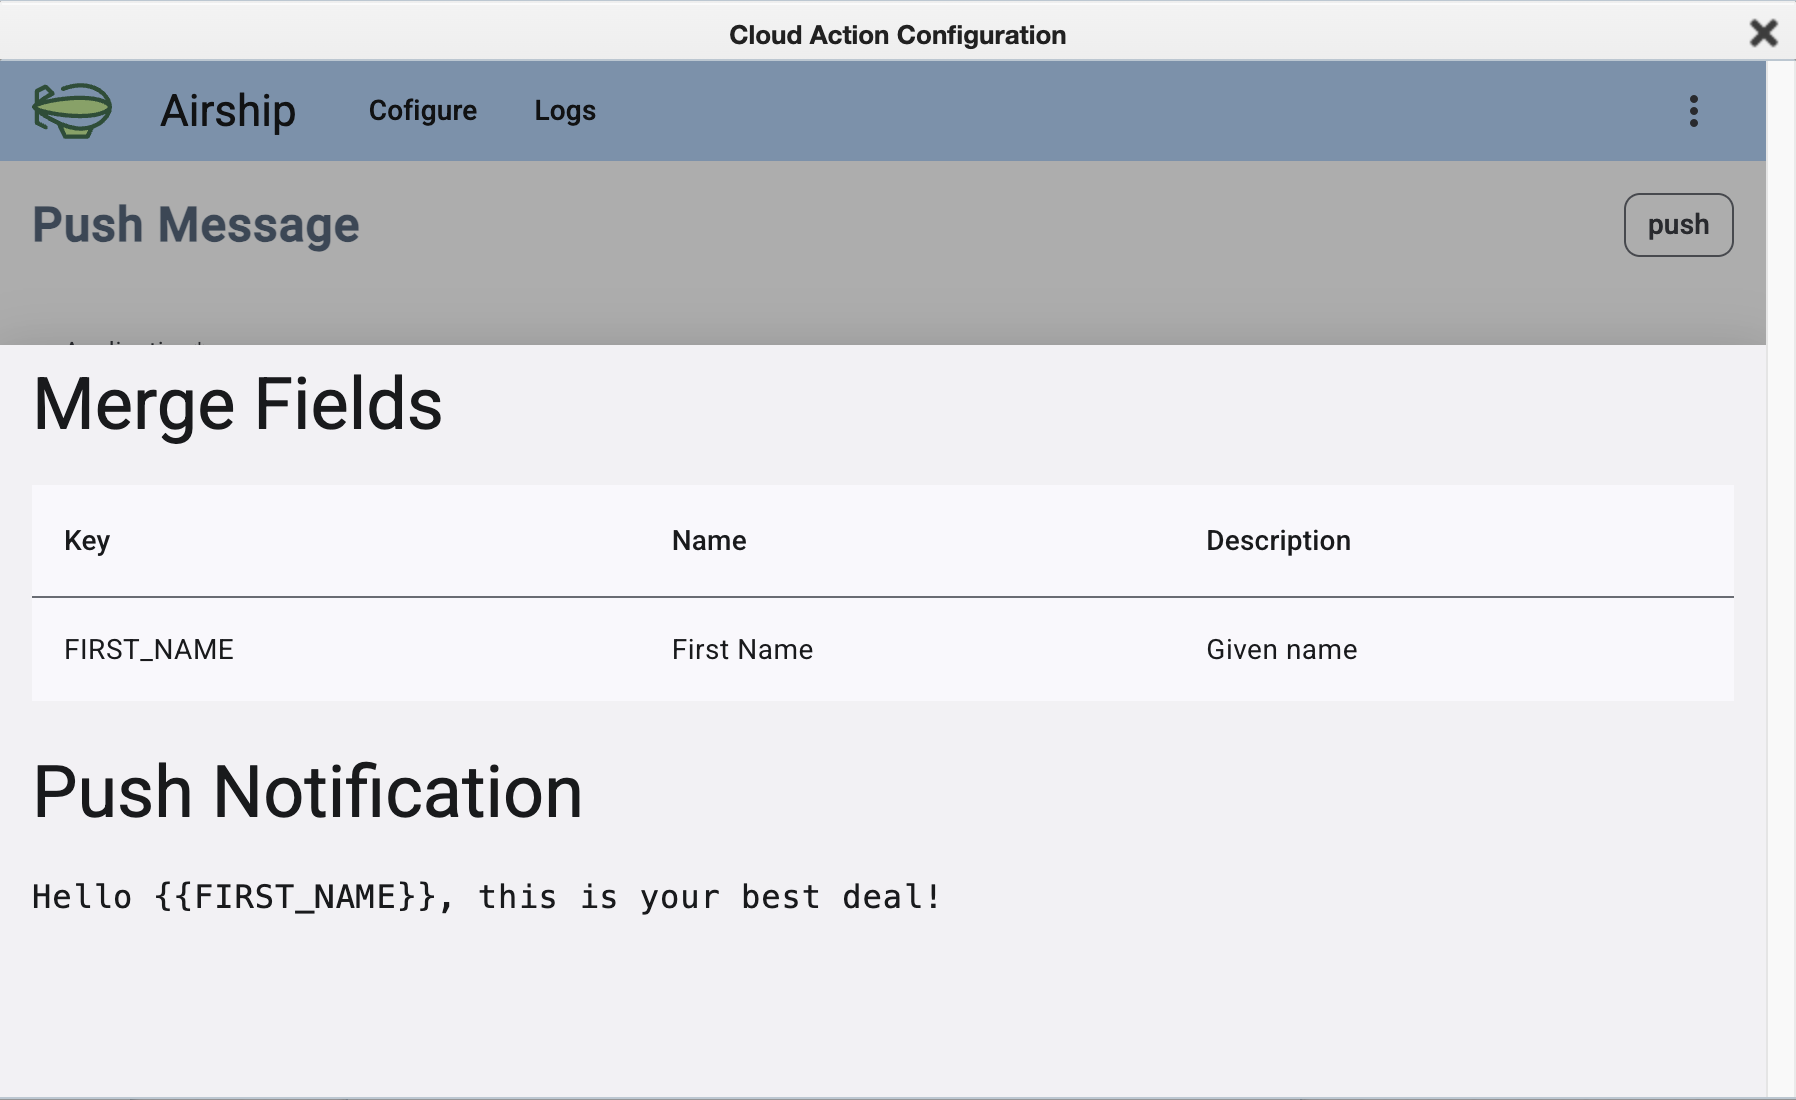
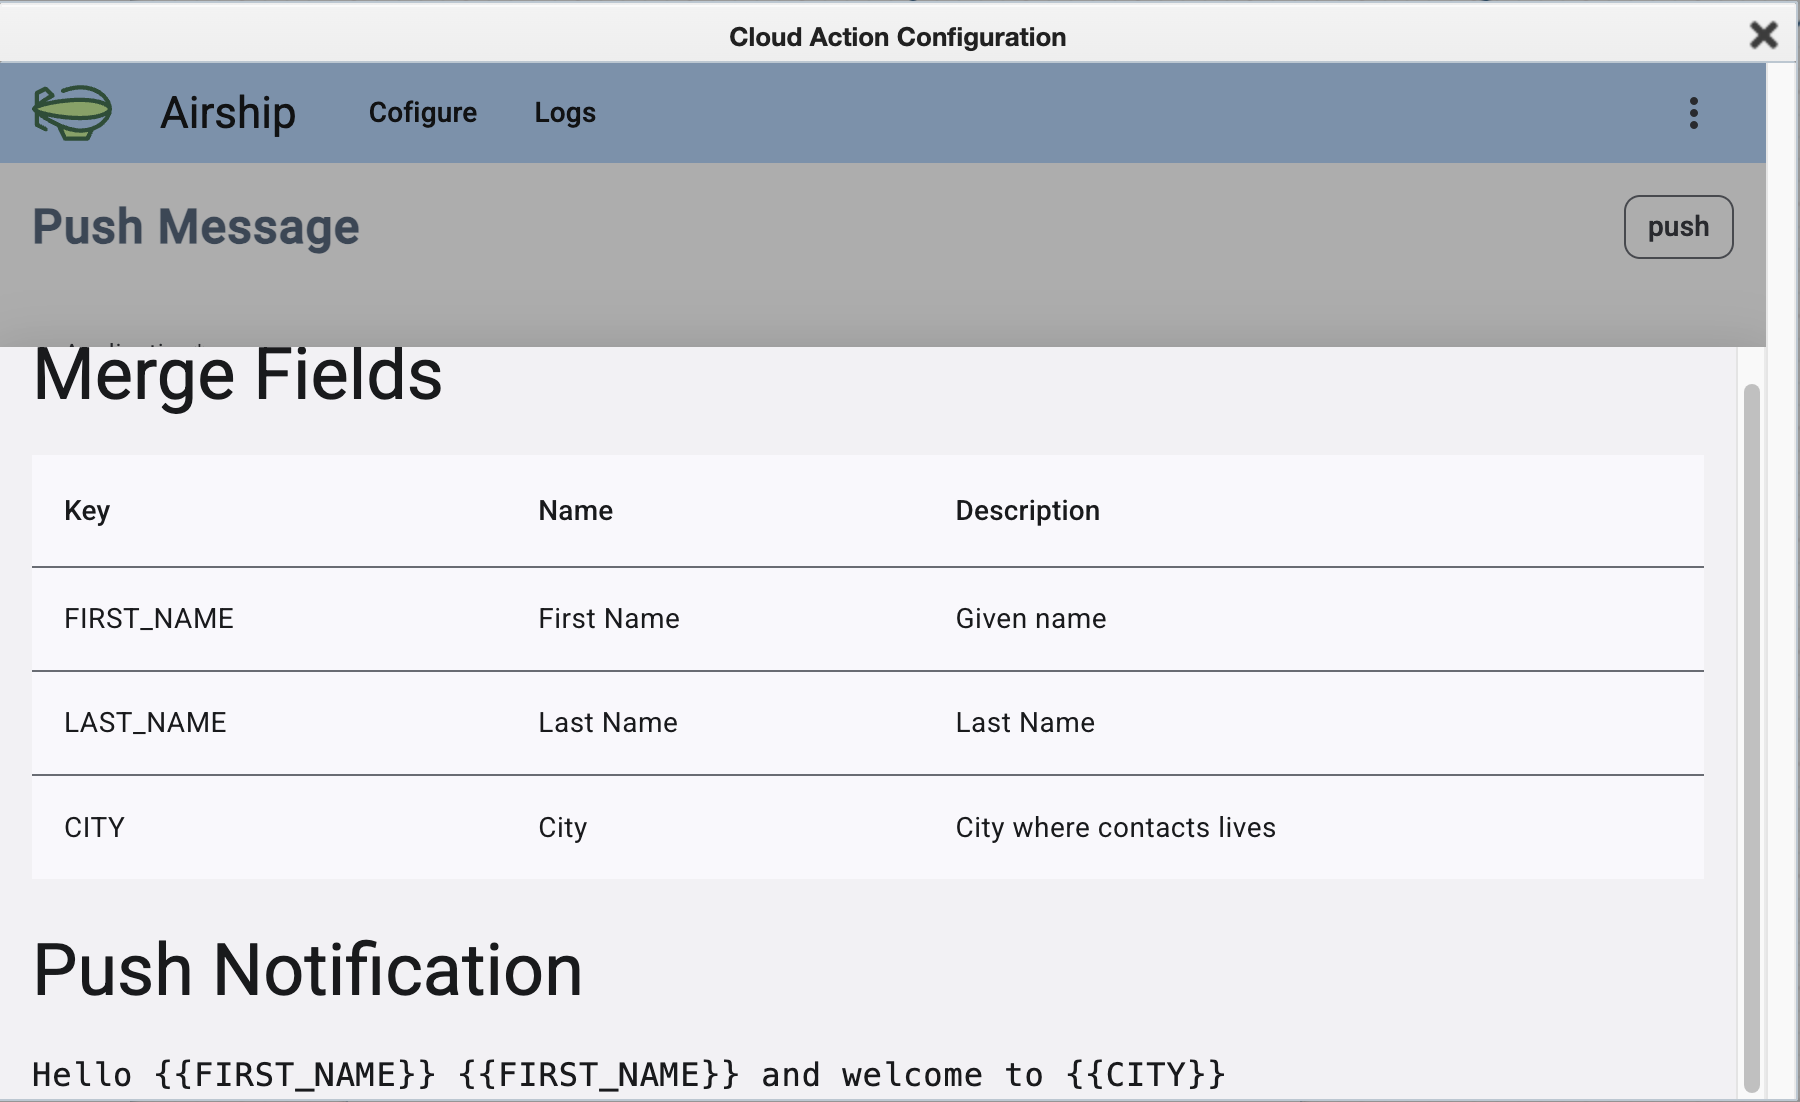
Remove segment push, restructure how-it-works with step flow, richer template preview

diff --git a/index.html b/index.html
@@ -42,7 +42,6 @@ title: "Airship × Eloqua Integration"
       </div>
     </div>
   </div>
-  <!-- Tech stack tags -->
   <div class="border-t border-indigo-800/50">
     <div class="max-w-6xl mx-auto px-6 py-4 flex flex-wrap gap-3">
       {% assign tags = "Eloqua Cloud App,AWS Lambda,SQS,DynamoDB,Angular,Serverless Framework,Node.js" | split: "," %}
@@ -53,30 +52,28 @@ title: "Airship × Eloqua Integration"
   </div>
 </section>
 
-<!-- ─── TWO MODES ──────────────────────────────────────────────── -->
+<!-- ─── HOW IT WORKS ───────────────────────────────────────────── -->
 <section id="how-it-works" class="bg-slate-50">
   <div class="max-w-6xl mx-auto px-6 py-20">
     <div class="text-center mb-16">
-      <h2 class="text-3xl lg:text-4xl font-light text-indigo-950 mb-4" style="font-family: 'Cinzel', serif;">Two ways to reach your audience</h2>
-      <p class="text-slate-500 max-w-xl mx-auto">Whether you're running an automated campaign or a one-off blast to a segment, the integration handles both.</p>
+      <h2 class="text-3xl lg:text-4xl font-light text-indigo-950 mb-4" style="font-family: 'Cinzel', serif;">Native inside Eloqua</h2>
+      <p class="text-slate-500 max-w-xl mx-auto">The integration lives as a Cloud App inside your Eloqua instance. Marketers work entirely within the Eloqua campaign builder — no external tools or logins.</p>
     </div>
 
-    <!-- Mode 1: Campaign Canvas -->
-    <div class="grid lg:grid-cols-2 gap-12 items-center mb-20">
-      <div>
-        <div class="inline-block text-sky-600 text-xs font-semibold tracking-widest uppercase mb-4">Mode 1</div>
+    <div class="grid lg:grid-cols-2 gap-12 items-start">
+      <div class="lg:sticky lg:top-24">
         <h3 class="text-2xl font-light text-indigo-950 mb-4" style="font-family: 'Cinzel', serif;">Campaign Canvas Action</h3>
         <p class="text-slate-600 leading-relaxed mb-6">
-          Drag and drop the Airship step into any Eloqua campaign. As contacts flow through the action step, push notifications are sent individually and in real time. Delivery status syncs back to Eloqua automatically — successes and failures both tracked.
+          Drag and drop the Airship step into any Eloqua campaign. As contacts flow through the action step, push notifications are queued and sent individually. The integration then reports delivery status back to Eloqua — successes and failures both recorded per contact.
         </p>
-        <ul class="space-y-3">
+        <ul class="space-y-3 mb-8">
           <li class="flex items-start gap-3 text-slate-600">
             <i class="fa-solid fa-check text-sky-500 mt-1 text-sm"></i>
-            Native drag-and-drop in the campaign canvas
+            Native drag-and-drop step in the campaign canvas
           </li>
           <li class="flex items-start gap-3 text-slate-600">
             <i class="fa-solid fa-check text-sky-500 mt-1 text-sm"></i>
-            Per-contact real-time delivery as they flow through the step
+            Per-contact delivery as they flow through the step
           </li>
           <li class="flex items-start gap-3 text-slate-600">
             <i class="fa-solid fa-check text-sky-500 mt-1 text-sm"></i>
@@ -84,45 +81,37 @@ title: "Airship × Eloqua Integration"
           </li>
           <li class="flex items-start gap-3 text-slate-600">
             <i class="fa-solid fa-check text-sky-500 mt-1 text-sm"></i>
-            Status synced back to Eloqua for each contact
+            Delivery status synced back to Eloqua automatically
+          </li>
+          <li class="flex items-start gap-3 text-slate-600">
+            <i class="fa-solid fa-check text-sky-500 mt-1 text-sm"></i>
+            Personalized messages using Eloqua contact field data
           </li>
         </ul>
-      </div>
-      <div class="space-y-4">
         <div class="rounded-xl overflow-hidden shadow-2xl border border-slate-200">
           <img src="/assets/images/campaign-canvas.png" alt="Airship step in Eloqua campaign canvas" class="w-full" />
         </div>
-        <div class="rounded-xl overflow-hidden shadow-xl border border-slate-200">
-          <img src="/assets/images/configure-filled.png" alt="Push message configuration" class="w-full" />
-        </div>
       </div>
-    </div>
 
-    <!-- Mode 2: Segment Push -->
-    <div class="grid lg:grid-cols-2 gap-12 items-center">
-      <div class="order-2 lg:order-1 rounded-xl overflow-hidden shadow-2xl border border-slate-200">
-        <img src="/assets/images/segment-push.png" alt="Segment push configuration" class="w-full" />
-      </div>
-      <div class="order-1 lg:order-2">
-        <div class="inline-block text-sky-600 text-xs font-semibold tracking-widest uppercase mb-4">Mode 2</div>
-        <h3 class="text-2xl font-light text-indigo-950 mb-4" style="font-family: 'Cinzel', serif;">Segment Push</h3>
-        <p class="text-slate-600 leading-relaxed mb-6">
-          Send a one-time bulk push to an entire Eloqua segment. Define your audience in Eloqua, open the Airship panel, pick your app and template, and send. Contact data is fetched from Eloqua in bulk and processed in the background.
-        </p>
-        <ul class="space-y-3">
-          <li class="flex items-start gap-3 text-slate-600">
-            <i class="fa-solid fa-check text-sky-500 mt-1 text-sm"></i>
-            Ad-hoc bulk send to any Eloqua segment
-          </li>
-          <li class="flex items-start gap-3 text-slate-600">
-            <i class="fa-solid fa-check text-sky-500 mt-1 text-sm"></i>
-            Contacts fetched directly from Eloqua via Bulk API
-          </li>
-          <li class="flex items-start gap-3 text-slate-600">
-            <i class="fa-solid fa-check text-sky-500 mt-1 text-sm"></i>
-            Processed asynchronously — no timeout risk on large segments
-          </li>
-        </ul>
+      <div class="space-y-6">
+        <div>
+          <p class="text-xs font-semibold text-sky-600 tracking-widest uppercase mb-2">Step 1 — Authenticate</p>
+          <div class="rounded-xl overflow-hidden shadow-lg border border-slate-200">
+            <img src="/assets/images/login.png" alt="Login inside Eloqua Cloud Action" class="w-full" />
+          </div>
+        </div>
+        <div>
+          <p class="text-xs font-semibold text-sky-600 tracking-widest uppercase mb-2">Step 2 — Configure</p>
+          <div class="rounded-xl overflow-hidden shadow-lg border border-slate-200">
+            <img src="/assets/images/configure-filled.png" alt="Push message configuration" class="w-full" />
+          </div>
+        </div>
+        <div>
+          <p class="text-xs font-semibold text-sky-600 tracking-widest uppercase mb-2">Step 3 — Preview template</p>
+          <div class="rounded-xl overflow-hidden shadow-lg border border-slate-200">
+            <img src="/assets/images/template-preview.png" alt="Template merge fields preview" class="w-full" />
+          </div>
+        </div>
       </div>
     </div>
   </div>
@@ -170,18 +159,18 @@ title: "Airship × Eloqua Integration"
 
       <div class="p-6 rounded-xl border border-slate-200 hover:border-indigo-300 hover:shadow-md transition-all">
         <div class="w-10 h-10 rounded-lg bg-indigo-100 flex items-center justify-center mb-4">
-          <i class="fa-solid fa-arrows-rotate text-indigo-600 text-lg"></i>
+          <i class="fa-solid fa-user-tag text-indigo-600 text-lg"></i>
         </div>
-        <h4 class="font-medium text-indigo-950 mb-2">Automatic status sync</h4>
-        <p class="text-slate-500 text-sm leading-relaxed">Delivery results — successes and failures — are imported back into Eloqua automatically after each send.</p>
+        <h4 class="font-medium text-indigo-950 mb-2">Personalization</h4>
+        <p class="text-slate-500 text-sm leading-relaxed">Templates support merge fields mapped to Eloqua contact data — send each contact a message with their name, city, or any custom field.</p>
       </div>
 
       <div class="p-6 rounded-xl border border-slate-200 hover:border-indigo-300 hover:shadow-md transition-all">
         <div class="w-10 h-10 rounded-lg bg-indigo-100 flex items-center justify-center mb-4">
-          <i class="fa-solid fa-user-tag text-indigo-600 text-lg"></i>
+          <i class="fa-solid fa-arrows-rotate text-indigo-600 text-lg"></i>
         </div>
-        <h4 class="font-medium text-indigo-950 mb-2">Personalization</h4>
-        <p class="text-slate-500 text-sm leading-relaxed">Templates support merge fields mapped to Eloqua contact data — send each contact a message with their own name, city, or any custom field.</p>
+        <h4 class="font-medium text-indigo-950 mb-2">Automatic status sync</h4>
+        <p class="text-slate-500 text-sm leading-relaxed">Delivery results — successes and failures — are imported back into Eloqua automatically after each send.</p>
       </div>
 
       <div class="p-6 rounded-xl border border-slate-200 hover:border-indigo-300 hover:shadow-md transition-all">
@@ -201,7 +190,7 @@ title: "Airship × Eloqua Integration"
   <div class="max-w-6xl mx-auto px-6 py-20">
     <div class="text-center mb-16">
       <h2 class="text-3xl lg:text-4xl font-light text-indigo-950 mb-4" style="font-family: 'Cinzel', serif;">In action</h2>
-      <p class="text-slate-500">The integration runs inside Eloqua's Cloud Action Configuration panel — no separate app to install.</p>
+      <p class="text-slate-500">Every screen runs inside the Eloqua Cloud Action panel — no separate app or login.</p>
     </div>
     <div class="grid md:grid-cols-2 lg:grid-cols-3 gap-6">
 
@@ -237,7 +226,7 @@ title: "Airship × Eloqua Integration"
         <div class="rounded-xl overflow-hidden shadow-lg border border-slate-200 group-hover:shadow-xl transition-shadow">
           <img src="/assets/images/template-preview.png" alt="Template merge fields and push notification preview" class="w-full" />
         </div>
-        <figcaption class="text-center text-sm text-slate-500 mt-3">Template preview with personalization merge fields</figcaption>
+        <figcaption class="text-center text-sm text-slate-500 mt-3">Template preview — merge fields and message content</figcaption>
       </figure>
 
       <figure class="group">
@@ -256,25 +245,15 @@ title: "Airship × Eloqua Integration"
   <div class="max-w-6xl mx-auto px-6 py-20">
     <div class="text-center mb-16">
       <h2 class="text-3xl lg:text-4xl font-light text-indigo-950 mb-4" style="font-family: 'Cinzel', serif;">Architecture</h2>
-      <p class="text-slate-500 max-w-xl mx-auto">Built on AWS with an async processing pipeline that handles scale without blocking the campaign.</p>
+      <p class="text-slate-500 max-w-xl mx-auto">Built on AWS with an async queue that decouples Eloqua from Airship — no timeouts, no blocking the campaign.</p>
     </div>
-    <div class="grid md:grid-cols-2 gap-8">
+    <div class="max-w-3xl mx-auto">
       <figure>
         <div class="rounded-xl overflow-hidden shadow-lg border border-slate-200">
           <img src="/assets/images/architecture-campaign.png" alt="Campaign action architecture diagram" class="w-full bg-white p-2" />
         </div>
         <figcaption class="text-center text-sm text-slate-500 mt-4">
-          <strong class="text-slate-700">Campaign Canvas flow</strong><br>
-          Eloqua → Lambda → SQS → Airship API → Eloqua Bulk Import
-        </figcaption>
-      </figure>
-      <figure>
-        <div class="rounded-xl overflow-hidden shadow-lg border border-slate-200">
-          <img src="/assets/images/architecture-segment.png" alt="Segment push architecture diagram" class="w-full bg-white p-2" />
-        </div>
-        <figcaption class="text-center text-sm text-slate-500 mt-4">
-          <strong class="text-slate-700">Segment Push flow</strong><br>
-          Eloqua Bulk Export → Lambda → Airship Bulk API
+          Eloqua Campaign → AWS Lambda → SQS → Airship API → Eloqua Bulk Import (status sync)
         </figcaption>
       </figure>
     </div>
@@ -294,7 +273,7 @@ title: "Airship × Eloqua Integration"
         <div class="bg-indigo-800/60 p-4 text-center text-sm font-medium text-slate-300 border-r border-indigo-700/50">Eloqua Webhooks (DIY)</div>
         <div class="bg-sky-800/60 p-4 text-center text-sm font-semibold text-sky-200">This integration</div>
 
-        {% assign rows = "Eloqua UI|Raw webhook config|Native drag-and-drop step;App & template selection|Manual API config|Searchable autocomplete;Scheduling|Custom build required|Built-in date & time pickers;Status sync to Eloqua|Custom build required|Automatic;Time to value|Weeks to months|Days;Maintenance|Your team's responsibility|Managed service" | split: ";" %}
+        {% assign rows = "Eloqua UI|Raw webhook config|Native drag-and-drop step;App & template selection|Manual API config|Searchable autocomplete;Scheduling|Custom build required|Built-in date & time pickers;Personalization|Custom build required|Merge fields from Eloqua contact data;Status sync to Eloqua|Custom build required|Automatic;Time to value|Weeks to months|Days;Maintenance|Your team's responsibility|Managed service" | split: ";" %}
         {% for row in rows %}
           {% assign cells = row | split: "|" %}
           <div class="col-span-1 bg-indigo-900/30 p-4 text-sm text-slate-300 border-t border-indigo-700/50 border-r border-indigo-700/50">{{ cells[0] }}</div>
